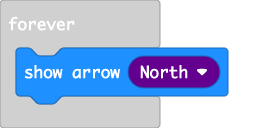
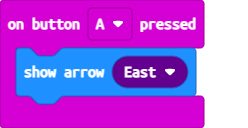
When Button A pressed, arrow points East because why the heck not

diff --git a/main.ts b/main.ts
@@ -1,3 +1,6 @@
+input.onButtonPressed(Button.A, function () {
+    basic.showArrow(ArrowNames.East)
+})
 basic.showString("Hello There")
 basic.forever(function () {
     basic.showArrow(ArrowNames.North)
